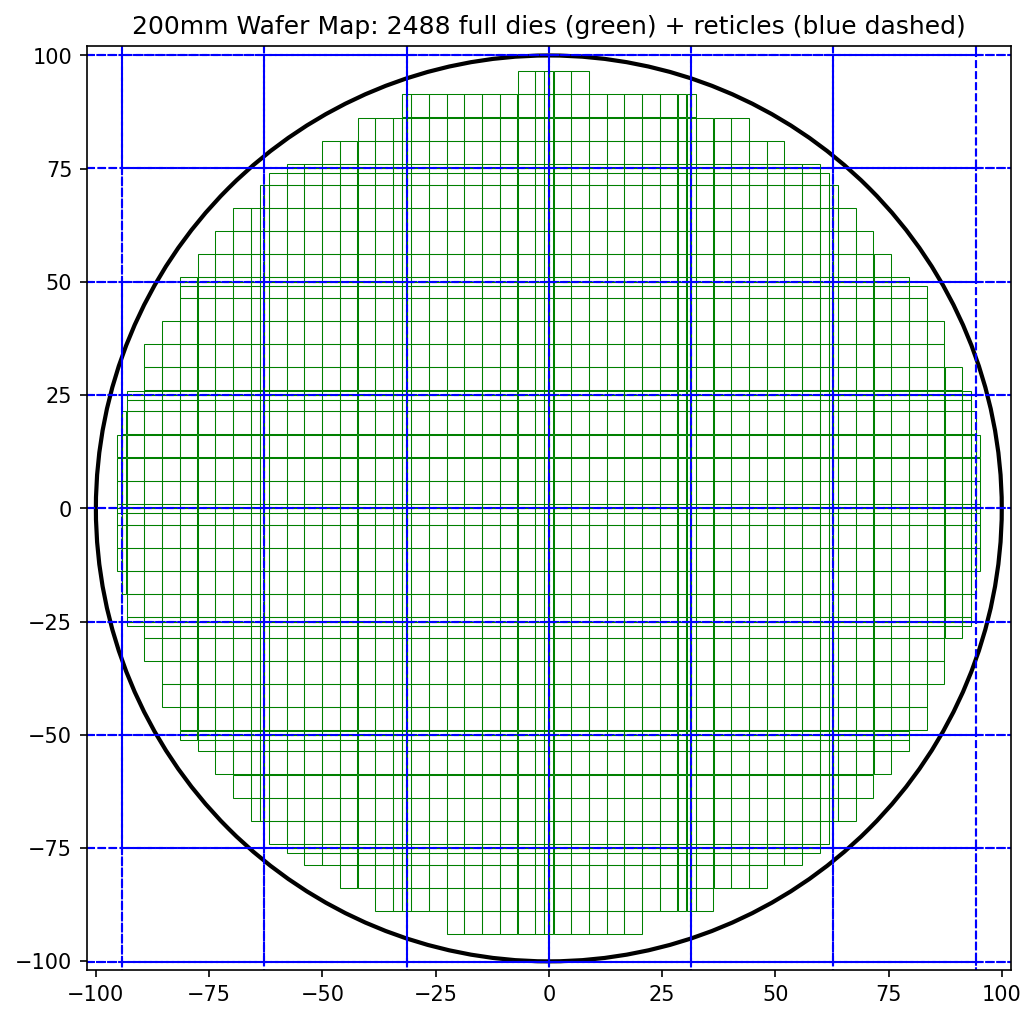
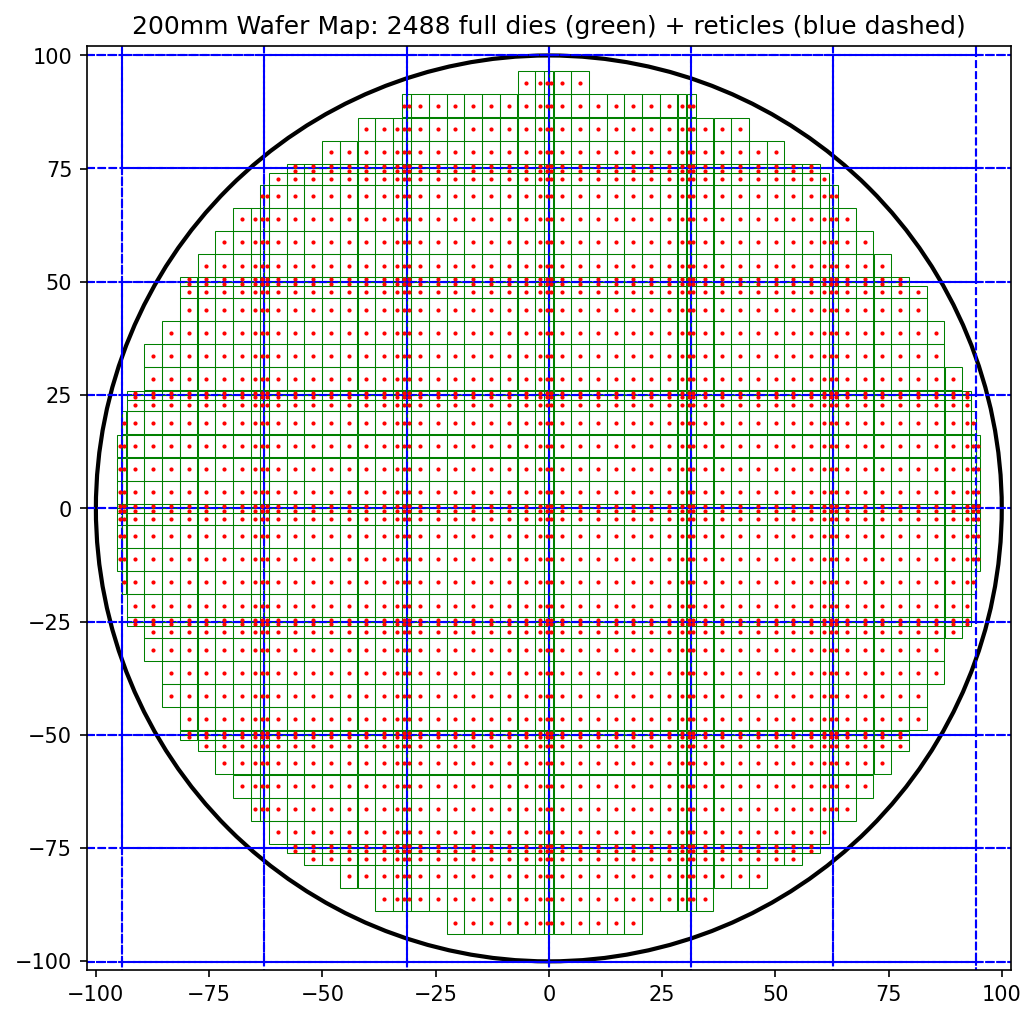
add center dots

diff --git a/helper_scripts/die_yield_helper.py b/helper_scripts/die_yield_helper.py
@@ -112,9 +112,10 @@ def die_yield_centered_reticle_flexible(
         wafer = Circle((0,0), wafer_size / 2.0, edgecolor='black', facecolor='none', lw=2)
         ax.add_patch(wafer)
 
+        # List to store center positions of all dies
+        die_centers_list = []
+
         # Plot all usable dies
-        # We need to iterate over the centers and re-calculate the die dimensions
-        # to ensure the correct rectangle is drawn.
         for ox, oy in origins:
             for c in range(reticle_cols):
                 x_start_rel: float = sum(px_list[:c])
@@ -129,22 +130,21 @@ def die_yield_centered_reticle_flexible(
                     lly: float = oy + y_start_rel
                     
                     if reticle_yield_counts[r, c] > 0:
-                        # Re-check the die is inside for this specific reticle shot
-                        # This is necessary because `reticle_yield_counts` accumulates across all shots,
-                        # but we only want to plot the dies that were marked as usable.
-                        # Since the check is already done above, we can simplify this block:
-                        
                         # Find the center for this die in this specific reticle
                         cx = llx + die_w / 2.0
                         cy = lly + die_h / 2.0
                         
-                        if (cx, cy) in centers: # Simple check to see if it was a counted die
+                        if (cx, cy) in centers:  # Check if it was a counted die
                             rect = Rectangle(
                                 (llx, lly), die_w, die_h, 
                                 edgecolor='green', facecolor='none', lw=0.5
                             )
                             ax.add_patch(rect)
-                        
+                            # Add the center position to the list
+                            die_centers_list.append((cx, cy))
+                            # Plot a red dot at the center of the die
+                            ax.plot(cx, cy, 'ro', markersize=1)
+
             # Plot reticle boundaries (blue dashed)
             rect = Rectangle((ox, oy), ret_w, ret_h, edgecolor='blue', facecolor='none', lw=1, linestyle='--')
             ax.add_patch(rect)
@@ -155,7 +155,10 @@ def die_yield_centered_reticle_flexible(
         ax.set_title(f"{wafer_size}mm Wafer Map: {total_dies} full dies (green) + reticles (blue dashed)")
         plt.savefig('wafer_map.png', dpi=150, bbox_inches='tight')
         plt.show()
-        
+
+        # Print the list of die center positions
+        print("Center positions of all usable dies:")
+        print(die_centers_list)
 
         # x_start_rel: float = sum(px_list[:c])
         # die_w: float = die_widths[c]
